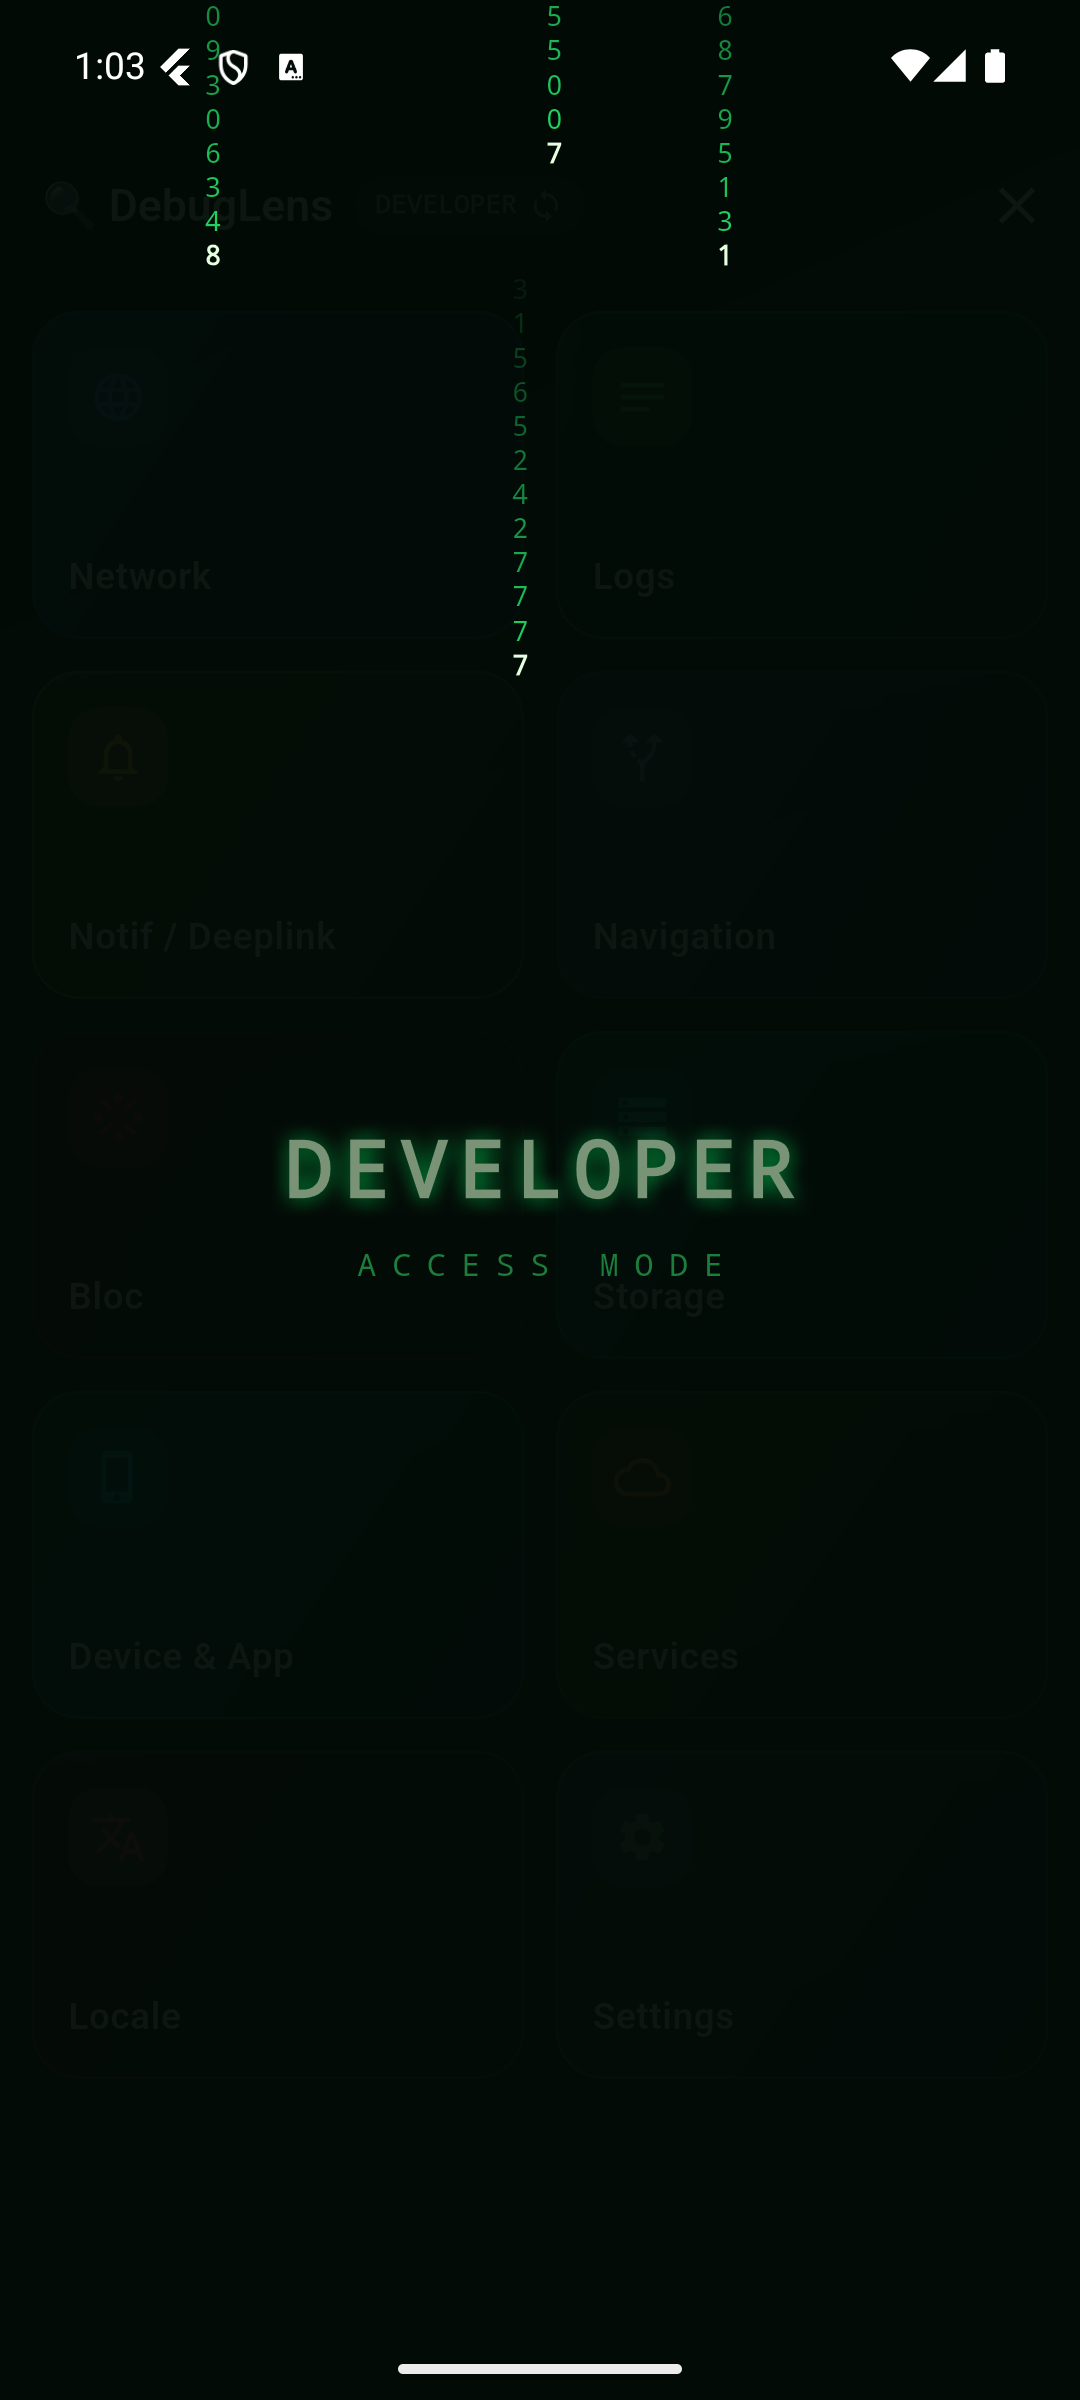
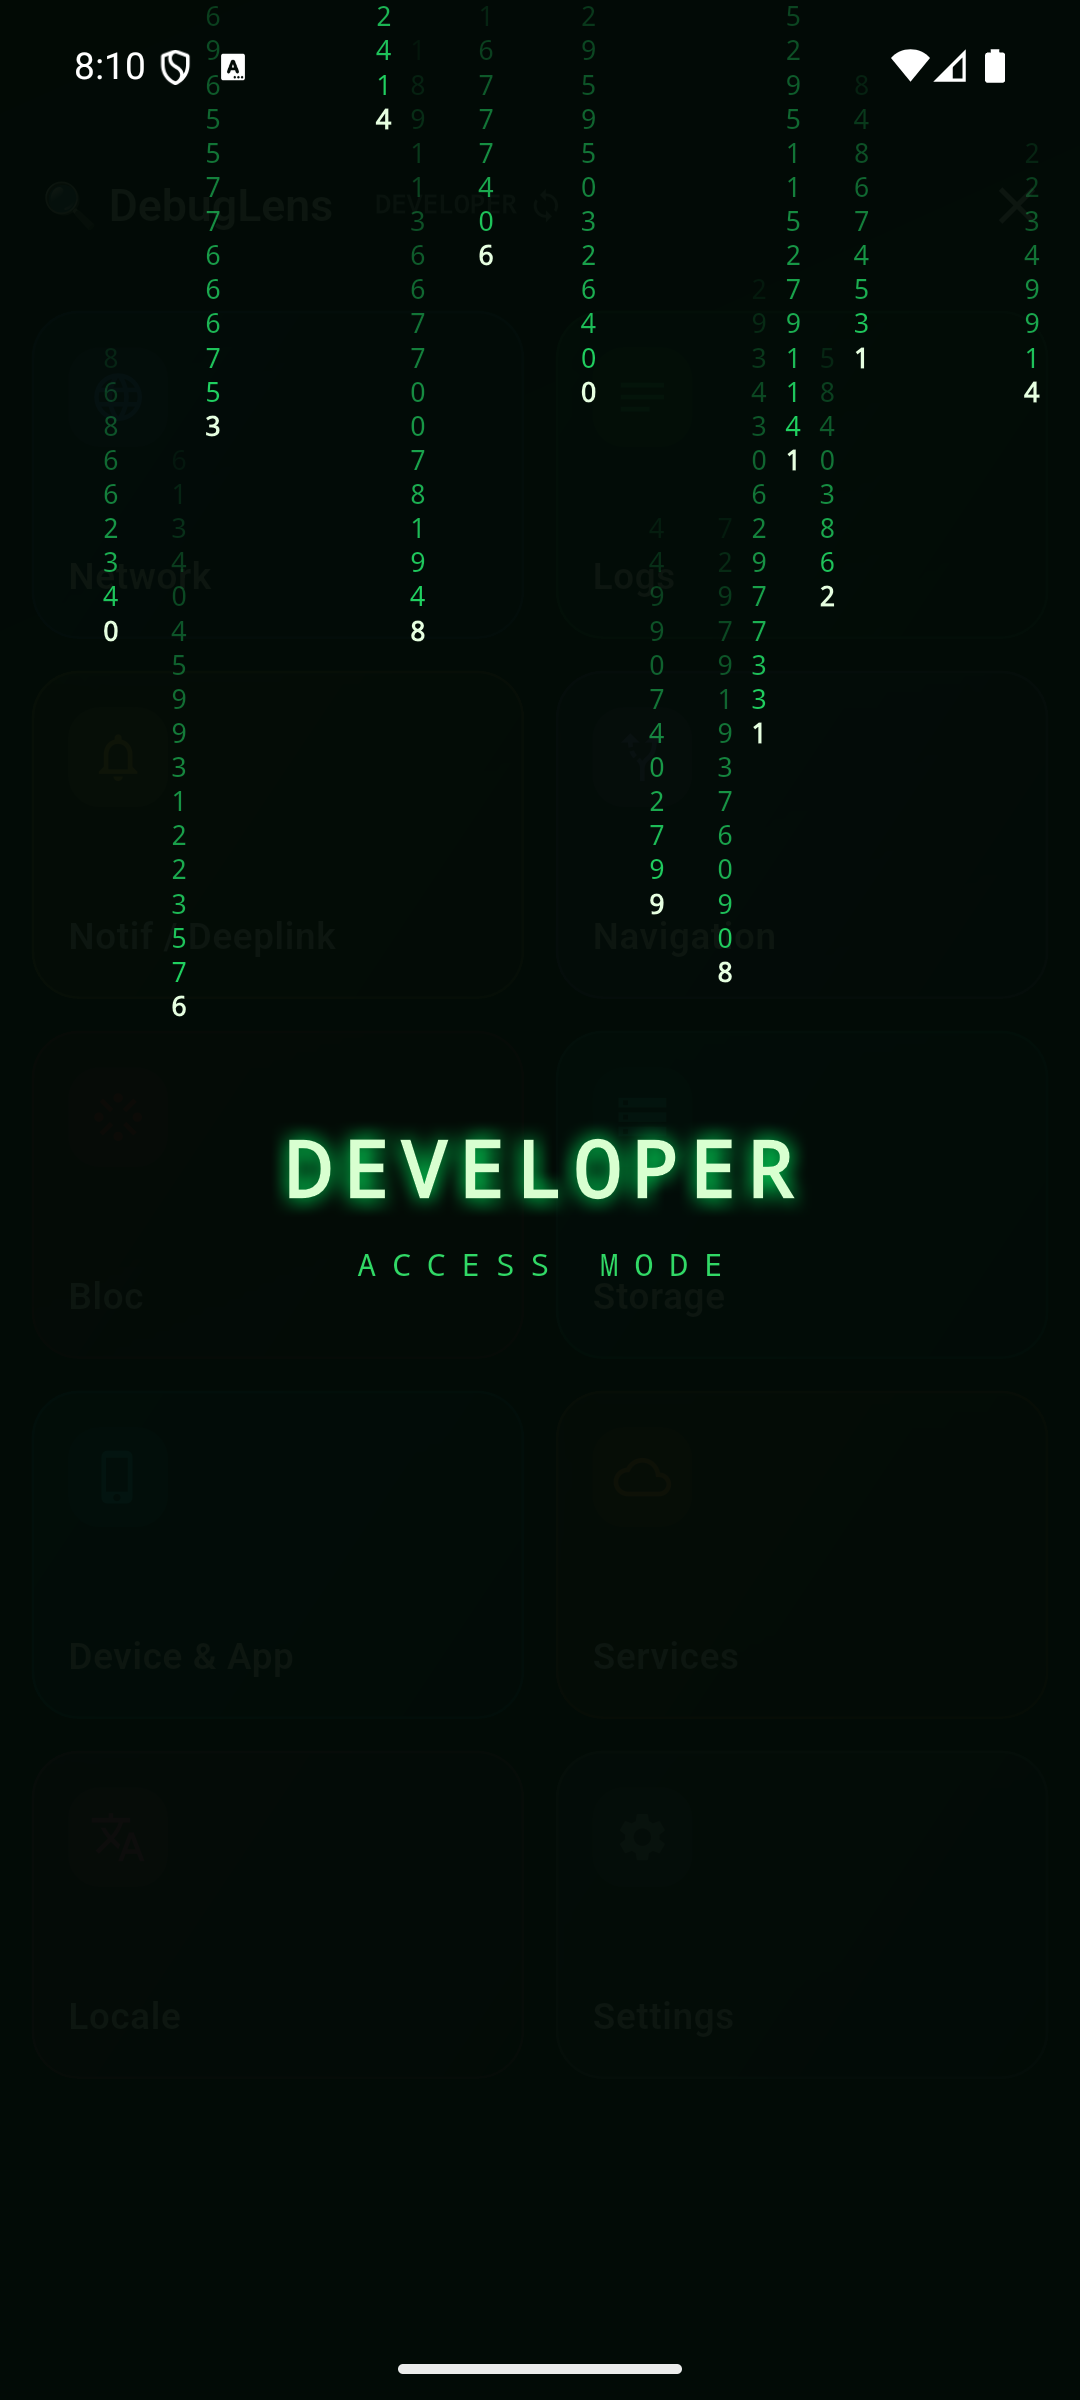
image changed

diff --git a/lib/src/features/logs/data/debug_lens_logger.dart b/lib/src/features/logs/data/debug_lens_logger.dart
@@ -53,11 +53,9 @@ typedef DebugLogObserver =
 /// DebugLensLogger().printToConsole = kDebugMode; // or false
 /// ```
 ///
-/// Size the buffer with `DebugLens.initialLimits`.
-///
-/// ```dart
-/// DebugLensLogger().maxHistory = 5000;
-/// ```
+/// Size the buffer with `DebugLens.initialLimits`; the shipped default is
+/// [defaultMaxHistory] and a tester can raise or lower it from the panel's
+/// Settings screen afterwards.
 ///
 /// Forward records elsewhere with [addLogObserver]. Extends [ChangeNotifier],
 /// so the Logs screen rebuilds as records land.
@@ -87,8 +85,14 @@ class DebugLensLogger extends ChangeNotifier {
 
   /// Cap on retained records, oldest dropped first. Lowering it trims now;
   /// values below 1 are ignored.
+  ///
+  /// Package-internal: pushed by `DebugLimitsStore` from `DebugLens.initialLimits`
+  /// and the Settings screen's edit sheet. Hosts size the buffer through
+  /// `DebugLens.initialLimits`, not this member directly.
+  @internal
   int get maxHistory => _maxHistory;
 
+  @internal
   set maxHistory(int value) {
     assert(value > 0, 'maxHistory must be greater than 0, got $value');
     if (value < 1 || value == _maxHistory) return;
@@ -114,10 +118,18 @@ class DebugLensLogger extends ChangeNotifier {
   List<DebugLogRecord> get history => List.unmodifiable(_history);
 
   /// Whether records from [origin] are currently being recorded.
+  ///
+  /// Package-internal: the mirroring gate every capture path checks, and the
+  /// backing value for the panel's own capture switches.
+  @internal
   bool isCapturing(DebugLogOrigin origin) => !_mutedOrigins.contains(origin);
 
   /// Starts or stops recording [origin], and persists the choice. Applies to
   /// new records only — rows already in [history] stay.
+  ///
+  /// Package-internal: wired to the capture sheet's switches, not meant to be
+  /// called by host apps.
+  @internal
   void setCapturing(DebugLogOrigin origin, bool enabled) {
     final changed = enabled
         ? _mutedOrigins.remove(origin)
@@ -129,6 +141,7 @@ class DebugLensLogger extends ChangeNotifier {
 
   /// Reloads the persisted capture switches. `DebugLens.wrap()` calls this once
   /// — hosts don't need to, and it must not run before the binding exists.
+  @internal
   Future<void> restoreCaptureSettings() async {
     if (_captureRestored) return;
     _captureRestored = true;
@@ -183,6 +196,10 @@ class DebugLensLogger extends ChangeNotifier {
   }
 
   /// Drops all retained records.
+  ///
+  /// Package-internal: backs the Logs screen's own Clear button and
+  /// `DebugStore.clearAll()`'s "wipe everything" cascade.
+  @internal
   void clear() {
     if (_history.isEmpty) return;
     _history.clear();

diff --git a/README.md b/README.md
@@ -40,6 +40,10 @@ none of your vendors and drops out cleanly when you remove it.
 | :-: | :-: | :-: |
 | <img src="https://raw.githubusercontent.com/anupam92402/DebugLens/master/doc/screenshots/settings.png" width="240"> | <img src="https://raw.githubusercontent.com/anupam92402/DebugLens/master/doc/screenshots/settings_bubble.png" width="240"> | <img src="https://raw.githubusercontent.com/anupam92402/DebugLens/master/doc/screenshots/role_switch.png" width="240"> |
 
+| Custom error screen |
+| :-: |
+| <img src="https://raw.githubusercontent.com/anupam92402/DebugLens/master/doc/screenshots/custom_error_screen.png" width="240"> |
+
 ## Install
 
 ```yaml
